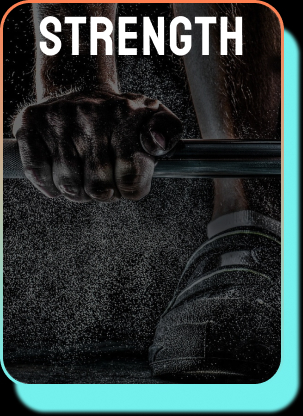
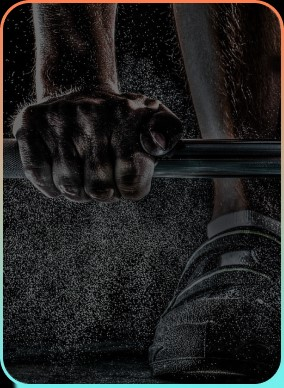
Restoring some stashed changes

diff --git a/src/components/homepage.jsx b/src/components/homepage.jsx
@@ -7,23 +7,13 @@ export default function HomePage() {
             <Navbar home={false} about={true} plan={true} />
             <img src="background.jpg" alt="Home Background" className="w-full" />
             <div className="text-white font-kod">
-        <p className="text-center text-[#74F0ED] text-3xl max-sm:text-2xl">
-          CUSTOMIZED PLAN CATERED TO YOUR GOALS
-        </p>
-        <div className="lg:flex justify-between py-14 px-20">
-          <HomeCard image="musclegain.jpg" text="MUSCLE GAIN" position='5'  />
-          <HomeCard image="musclegain.jpg" text="MUSCLE GAIN" position={85}  />
-          
-          <div className="w-max h-max relative m-auto my-10">
-            <img
-              src="musclegain.jpg"
-              alt="MuscleGain.jpg"
-              className="rounded-[30px] my-shadow"
-            />
-            <p className="absolute bottom-[85%] left-3 text-4xl">MUSCLE GAIN</p>
-          </div>
-        </div>
-      </div>
+            <p className="text-center text-[#74F0ED] text-3xl max-sm:text-2xl">CUSTOMIZED PLAN CATERED TO YOUR GOALS</p>
+              <div className="lg:flex justify-between py-14 px-20">
+                <HomeCard key="muscle gain" image="musclegain.jpg" text="MUSCLE GAIN" position="bottom-5"  />
+                <HomeCard key="weight loss" image="weightloss.jpg" text="WEIGHT LOSS" position="top-[45%]"  />
+                <HomeCard key="strength" image="strength.jpg" text="STRENGTH" position="top-5 left-14"  />
+              </div>
+            </div>
         </div>
     );
 }

diff --git a/src/components/homecard.jsx b/src/components/homecard.jsx
@@ -1,12 +1,14 @@
 export default function HomeCard(props){
     return(
-        <div className="w-max h-max relative m-auto my-10">
+        <div className="w-max h-max relative lg:m-auto lg:my-10 md:my-8">
             <img
               src={props.image}
               alt={props.image}
               className="rounded-[30px] my-shadow"
             />
-            <p className={`absolute bottom-[${props.position}%] left-3 text-4xl`}>{props.text}</p>
+            <div className={`absolute left-8 ${props.position}`}>
+                <p className="text-5xl font-kou">{props.text}</p>
+            </div>
         </div>
     )
 }

diff --git a/public/index.html b/public/index.html
@@ -7,6 +7,9 @@
   <link rel="preconnect" href="https://fonts.googleapis.com">
   <link rel="preconnect" href="https://fonts.gstatic.com" crossorigin>
   <link href="https://fonts.googleapis.com/css2?family=Kodchasan:wght@700&display=swap" rel="stylesheet">
+  <link rel="preconnect" href="https://fonts.googleapis.com">
+  <link rel="preconnect" href="https://fonts.gstatic.com" crossorigin>
+  <link href="https://fonts.googleapis.com/css2?family=Koulen&display=swap" rel="stylesheet">
   <link rel="stylesheet" href="../src/index.css">
 </head>
 <body class="bg-black">

diff --git a/src/index.css b/src/index.css
@@ -2,13 +2,11 @@
 @import "tailwindcss/components";
 @import "tailwindcss/utilities";
 
-@layer components {
-  .bd {
-    @apply border border-white;
-  }
-  .nav-item {
-    @apply text-white font-kod text-lg  bg-black rounded-3xl p-3;
-  }
+.bd {
+  @apply border border-white;
+}
+.nav-item {
+  @apply text-white font-kod text-lg  bg-black rounded-3xl p-3;
 }
 
 .gradient-border {

diff --git a/tailwind.config.js b/tailwind.config.js
@@ -8,6 +8,7 @@ module.exports = {
     extend: {
       fontFamily:{
         kod:['Kodchasan', 'sans-serif'],
+        kou:['Koulen', 'sans-serif'],
       }
     },
   },
